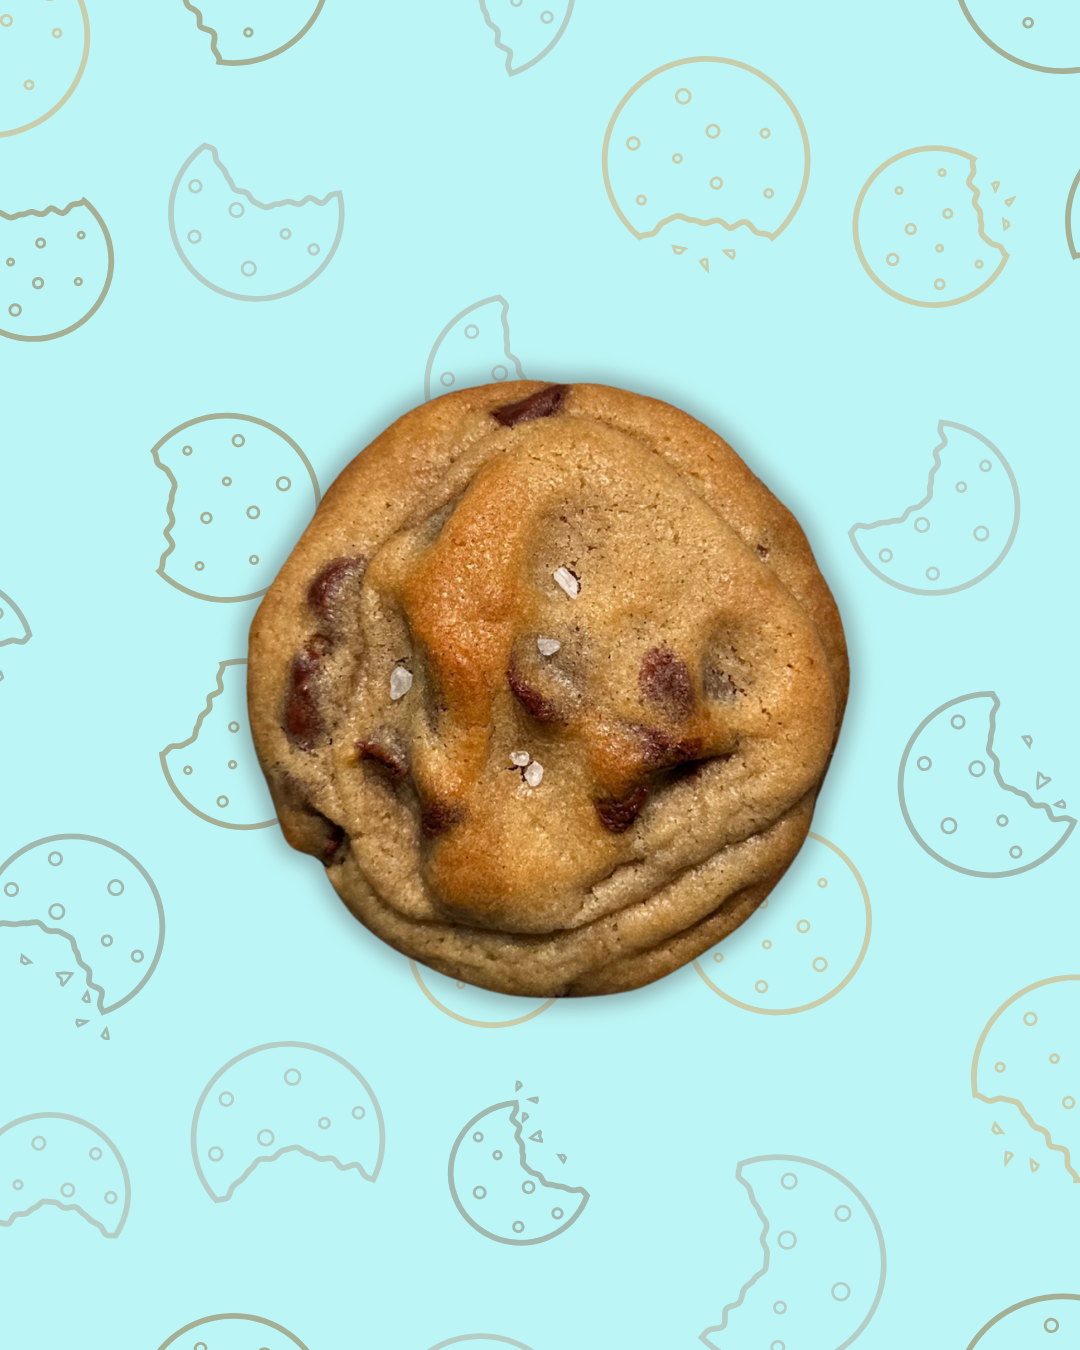
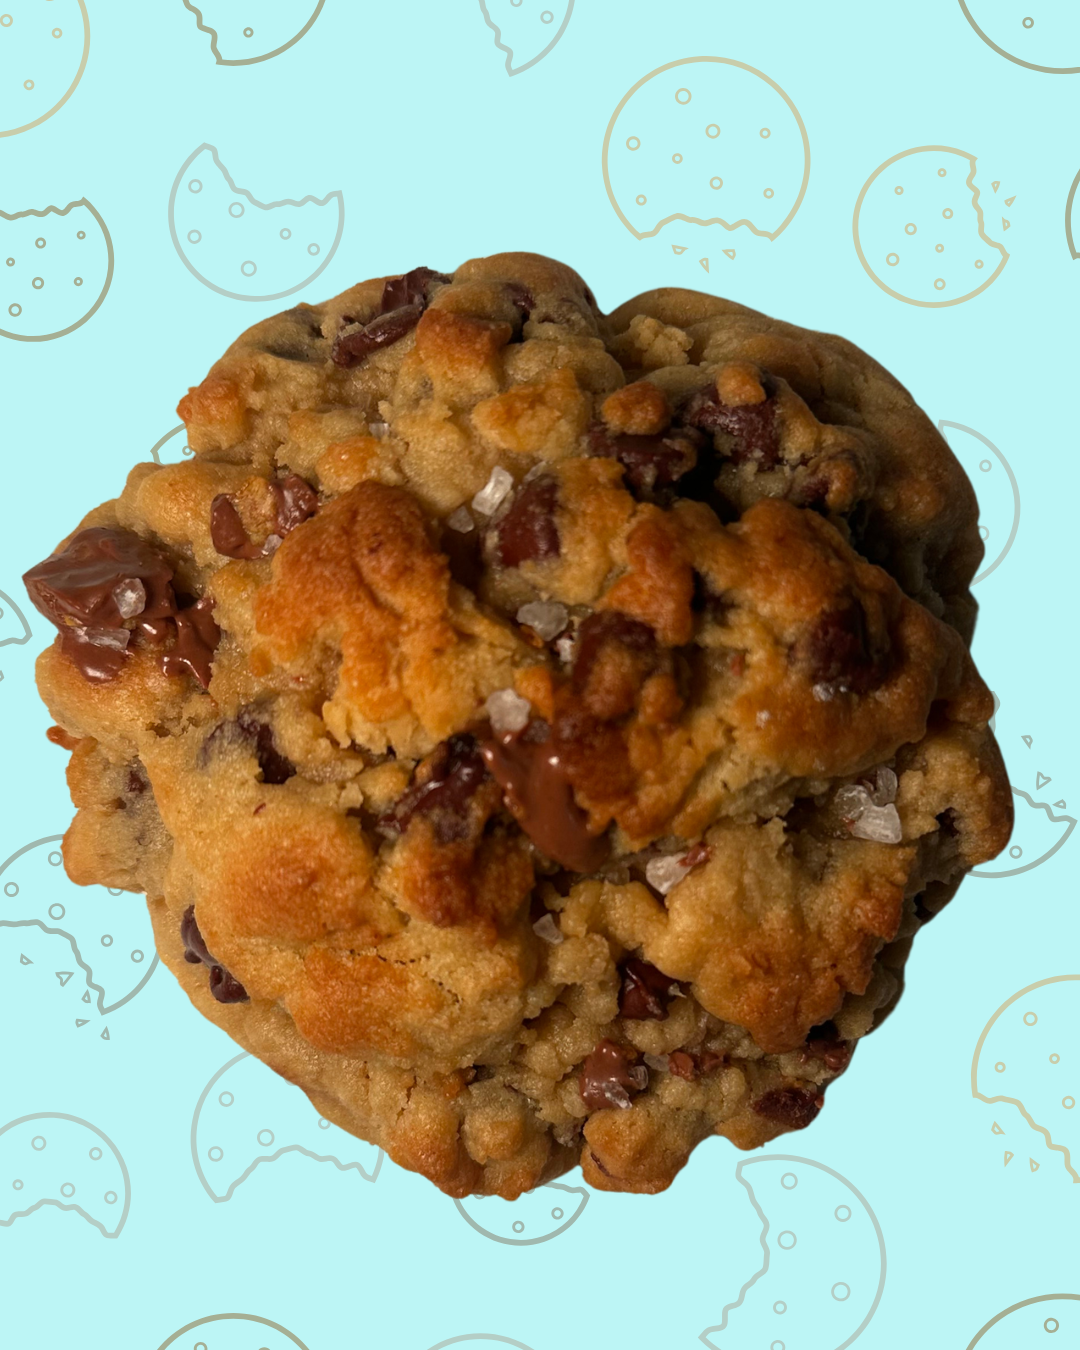
April Update!
Add multiple cookie image assets and extend productData with new cookie products (kinder-bueno, chocolate-chip, ferrero-macadamia, biscoff, mana-duo, tiramisu, dubai-pistachio). Update several existing cookie entries (toggle ongoing/new flags to reflect seasonal availability, adjust kinder-bueno-hippo price and flags) and remove obsolete chocolate-chip images. Also update some ongoing image files and bump CART_VERSION to v1.1. Overall: reorganize and consolidate cookie products and assets.

diff --git a/products.js b/products.js
@@ -17,14 +17,14 @@
         ongoingProductImg: "Main-ongoing-product-image",
         seasonedProductImg: "Main-seasoned-product-image",
         secondImg: "Second-product-image",
-        ongoing: true or false, // Controlls whether the item gets a price when the user clicks from the bakedGoods page and changes the background
+        ongoing: true, // Controlls whether the item gets a price when the user clicks from the bakedGoods page and changes the background
         get mainImg() {
             return this.ongoing ? this.ongoingProductImg : this.seasonedProductImg;
         },
-        new: true or false // Controlls if the item gets displayed in the Home Page's product carrousel
+        new: true // Controlls if the item gets displayed in the Home Page's product carrousel
     },
     */
-const CART_VERSION = "v1";
+const CART_VERSION = "v1.1";
 
 // Constant containing all of the product details
 const productData = {
@@ -67,24 +67,122 @@ const productData = {
         mainImg: "../images/sourdough/honey-oat_sourdough_bg.png",
         secondImg: "../images/sourdough/honey-oat_sourdough_og_bg.jpg",
         ongoing: true,
-        new: true
+        new: false
     },
 
 
     //----------- Cookies -------------
-    "kinder-bueno-hippo_cookie":{
-        title: "Kinder Bueno Hippo Cookie",
-        price: "$6.50",
-        info: "Vanilla cookie with chocolate chips, filled with white hazelnut cream, topped with a Kinder Bueno Hippo and white chocolate shavings",
-        ingredients: "General Ingredients: Flour, Sugar, Brown Sugar, Eggs, Butter, Baking Powder, Baking Soda, Corn Starch, Salt, Vanilla. Weight: 160g",
-        ongoingProductImg: "../images/cookies/kinder-bueno-hippo_cookie_bg_ongoing.png",
-        seasonedProductImg: "../images/cookies/kinder-bueno-hippo_cookie_bg_seasoned.png",
-        secondImg: "../images/cookies/kinder-bueno-hippo_cookie_bg.jpg",
+    "kinder-bueno_cookie":{
+        title: "Kinder Bueno Cookie",
+        price: "$5.50",
+        info: "Vanilla cookie with chocolate chips, mixed bueno spread, filled with bueno spread, topped with white chocolate and kinder bueno square",
+        ingredients: "General Ingredients: Flour, Sugar, Brown Sugar, Eggs, Butter, Baking Powder, Baking Soda, Corn Starch, Salt, Vanilla. Weight: 6oz+",
+        ongoingProductImg: "../images/cookies/kinder-bueno_cookie_bg_ongoing.png",
+        seasonedProductImg: "../images/cookies/kinder-bueno_cookie_bg_seasoned.png",
+        secondImg: "../images/cookies/kinder-bueno_cookie_bg.png",
         ongoing: true,
         get mainImg() {
             return this.ongoing ? this.ongoingProductImg : this.seasonedProductImg;
         },
         new: true
+    },
+    "chocolate-chip_cookie":{
+        title: "Chocolate Chip Cookie",
+        price: "$6.20",
+        info: "Chocolate chip cookie topped with sea salt",
+        ingredients: "General Ingredients: Flour, Sugar, Brown Sugar, Eggs, Butter, Baking Powder, Baking Soda, Corn Starch, Salt, Vanilla. Weight: 6oz+",
+        ongoingProductImg: "../images/cookies/chocolate-chip_cookie_bg_ongoing.png",
+        seasonedProductImg: "../images/cookies/chocolate-chip_cookie_bg_seasoned.png",
+        secondImg: "../images/cookies/chocolate-chip_cookie_bg.png",
+        ongoing: true,
+        get mainImg() {
+            return this.ongoing ? this.ongoingProductImg : this.seasonedProductImg;
+        },
+        new: true
+    },
+    "ferrero-macadamia_cookie":{
+        title: "Ferrero Macadamia Cookie",
+        price: "$8.60",
+        info: "Chocolate cookies with chocolate chips, mixed with macadamia nuts, filled with a Ferrero and Nutella, topped with half a Ferrero ",
+        ingredients: "General Ingredients: Flour, Sugar, Brown Sugar, Eggs, Butter, Baking Powder, Baking Soda, Corn Starch, Salt, Vanilla. Weight: 6oz+",
+        ongoingProductImg: "../images/cookies/ferrero-macademia_cookie_bg_ongoing.png",
+        seasonedProductImg: "",
+        secondImg: "../images/cookies/ferrero-macademia_cookie_bg.png",
+        ongoing: true, // Controlls whether the item gets a price when the user clicks from the bakedGoods page and changes the background
+        get mainImg() {
+            return this.ongoing ? this.ongoingProductImg : this.seasonedProductImg;
+        },
+        new: true // Controlls if the item gets displayed in the Home Page's product carrousel
+    },
+    "biscoff_cookie":{
+        title: "Biscoff Cookie",
+        price: "$8.00",
+        info: "Vanilla cookie with white chocolate chips, mixed with Biscoff cookie bits, filled with Biscoff cookie butter, topped with half a Biscoff cookie",
+        ingredients: "General Ingredients: Flour, Sugar, Brown Sugar, Eggs, Butter, Baking Powder, Baking Soda, Corn Starch, Salt, Vanilla. Weight: 6oz+",
+        ongoingProductImg: "../images/cookies/biscoff_cookie_bg_ongoing.png",
+        seasonedProductImg: "",
+        secondImg: "../images/cookies/biscoff_cookie_bg_white.png",
+        ongoing: true, // Controlls whether the item gets a price when the user clicks from the bakedGoods page and changes the background
+        get mainImg() {
+            return this.ongoing ? this.ongoingProductImg : this.seasonedProductImg;
+        },
+        new: true // Controlls if the item gets displayed in the Home Page's product carrousel
+    },
+    "mana-duo_cookie":{
+        title: "The Maná Duo",
+        price: "$8.00",
+        info: "Half vanilla, half chocolate cookie mixed with chocolate chips",
+        ingredients: "General Ingredients: Flour, Sugar, Brown Sugar, Eggs, Butter, Baking Powder, Baking Soda, Corn Starch, Salt, Vanilla. Weight: 6oz+",
+        ongoingProductImg: "../images/cookies/mana-duo_cookie_bg_ongoing.png",
+        seasonedProductImg: "",
+        secondImg: "../images/cookies/mana-duo_cookie_bg_white.png",
+        ongoing: true, // Controlls whether the item gets a price when the user clicks from the bakedGoods page and changes the background
+        get mainImg() {
+            return this.ongoing ? this.ongoingProductImg : this.seasonedProductImg;
+        },
+        new: true // Controlls if the item gets displayed in the Home Page's product carrousel
+    },
+    "tiramisu_cookie":{
+        title: "Tiramisu Cookie",
+        price: "$8.00",
+        info: "Vanilla cookie with chocolate chips, mixed with ladyfinger cookie bits, filled with tiramisu spread, topped with cocoa powder",
+        ingredients: "General Ingredients: Flour, Sugar, Brown Sugar, Eggs, Butter, Baking Powder, Baking Soda, Corn Starch, Salt, Vanilla. Weight: 6oz+",
+        ongoingProductImg: "../images/cookies/tiramisu_cookie_bg_ongoing.png",
+        seasonedProductImg: "",
+        secondImg: "../images/cookies/tiramisu_cookie_bg_white.png",
+        ongoing: true, // Controlls whether the item gets a price when the user clicks from the bakedGoods page and changes the background
+        get mainImg() {
+            return this.ongoing ? this.ongoingProductImg : this.seasonedProductImg;
+        },
+        new: true // Controlls if the item gets displayed in the Home Page's product carrousel
+    },
+    "dubai-pistachio_cookie":{
+        title: "Dubai Pistachio Cookie",
+        price: "$8.60",
+        info: "Vanilla cookie with chocolate chips, mixed with pistachios, filled with pistachio spread and crunchy kataifi, topped with chocolate and pistachios",
+        ingredients: "General Ingredients: Flour, Sugar, Brown Sugar, Eggs, Butter, Baking Powder, Baking Soda, Corn Starch, Salt, Vanilla. Weight: 6oz+",
+        ongoingProductImg: "../images/cookies/dubai-pistachio_cookie_bg_ongoing.png",
+        seasonedProductImg: "",
+        secondImg: "../images/cookies/dubai-pistachio_cookie_bg.png",
+        ongoing: true, // Controlls whether the item gets a price when the user clicks from the bakedGoods page and changes the background
+        get mainImg() {
+            return this.ongoing ? this.ongoingProductImg : this.seasonedProductImg;
+        },
+        new: true // Controlls if the item gets displayed in the Home Page's product carrousel
+    },
+    "kinder-bueno-hippo_cookie":{
+        title: "Kinder Bueno Hippo Cookie",
+        price: "$8.00",
+        info: "Vanilla cookie with chocolate chips, filled with white hazelnut cream, topped with a Kinder Bueno Hippo and white chocolate shavings",
+        ingredients: "General Ingredients: Flour, Sugar, Brown Sugar, Eggs, Butter, Baking Powder, Baking Soda, Corn Starch, Salt, Vanilla. Weight: 160g",
+        ongoingProductImg: "../images/cookies/kinder-bueno-hippo_cookie_bg_ongoing.png",
+        seasonedProductImg: "../images/cookies/kinder-bueno-hippo_cookie_bg_seasoned.png",
+        secondImg: "../images/cookies/kinder-bueno-hippo_cookie_bg.jpg",
+        ongoing: false,
+        get mainImg() {
+            return this.ongoing ? this.ongoingProductImg : this.seasonedProductImg;
+        },
+        new: false
     },
     "reeses-peanut-butter-cup_cookie":{
         title: "Reese’s Peanut Butter Cup Cookie",
@@ -94,11 +192,11 @@ const productData = {
         ongoingProductImg: "../images/cookies/reeses-peanut-butter-cup_cookie_bg_ongoing.png",
         seasonedProductImg: "../images/cookies/reeses-peanut-butter-cup_cookie_bg_seasoned.png",
         secondImg: "../images/cookies/reeses-peanut-butter-cup_cookie_bg.jpg",
-        ongoing: true,
+        ongoing: false,
         get mainImg() {
             return this.ongoing ? this.ongoingProductImg : this.seasonedProductImg;
         },
-        new: true
+        new: false
     },
     "strawberry-matcha_cookie":{
         title: "Strawberry Matcha Cookie",
@@ -108,11 +206,11 @@ const productData = {
         ongoingProductImg: "../images/cookies/strawberry-matcha_cookie_bg_ongoing.png",
         seasonedProductImg: "../images/cookies/strawberry-matcha_cookie_bg_seasoned.png",
         secondImg: "../images/cookies/strawberry-matcha_cookie_bg.jpg",
-        ongoing: true,
+        ongoing: false,
         get mainImg() {
             return this.ongoing ? this.ongoingProductImg : this.seasonedProductImg;
         },
-        new: true
+        new: false
     },
     "guava-dulce-de-leche_cookie":{
         title: "Guava-Dulce de Leche Cookie",
@@ -122,11 +220,11 @@ const productData = {
         ongoingProductImg: "../images/cookies/guava-dulce-de-leche_cookie_bg_ongoing.png",
         seasonedProductImg: "../images/cookies/guava-dulce-de-leche_cookie_bg_seasoned.png",
         secondImg: "../images/cookies/guava-dulce-de-leche_cookie_bg.jpg",
-        ongoing: true,
+        ongoing: false,
         get mainImg() {
             return this.ongoing ? this.ongoingProductImg : this.seasonedProductImg;
         },
-        new: true
+        new: false
     },
     "cocoa-coffee-toffee_cookie":{
         title: "Cocoa Coffee Toffee Cookie",
@@ -136,11 +234,11 @@ const productData = {
         ongoingProductImg: "../images/cookies/cocoa-coffee-toffee_cookie_bg_ongoing.png",
         seasonedProductImg: "../images/cookies/cocoa-coffee-toffee_cookie_bg_seasoned.png",
         secondImg: "../images/cookies/cocoa-coffee-toffee_cookie_bg.jpg",
-        ongoing: true,
+        ongoing: false,
         get mainImg() {
             return this.ongoing ? this.ongoingProductImg : this.seasonedProductImg;
         },
-        new: true
+        new: false
     },
     "dubai-choco_cookie":{
         title: "Dubai Chocolate Cookie", /*Change back after Febuary (Currently Valentine's Day Themed Name)*/
@@ -150,11 +248,11 @@ const productData = {
         ongoingProductImg: "../images/cookies/dubai-choco_cookie_bg_ongoing.png",
         seasonedProductImg: "../images/cookies/dubai-choco_cookie_bg_seasoned.png",
         secondImg: "../images/cookies/dubai-choco_cookie_bg.jpg",
-        ongoing: true,
+        ongoing: false,
         get mainImg() {
             return this.ongoing ? this.ongoingProductImg : this.seasonedProductImg;
         },
-        new: true
+        new: false
     },
     "s-mores_cookie":{
         title: "S'Mores Cookie",
@@ -164,25 +262,11 @@ const productData = {
         ongoingProductImg: "../images/cookies/s-mores_cookie_bg_ongoing.png",
         seasonedProductImg: "../images/cookies/s-mores_cookie_bg_seasoned.png",
         secondImg: "../images/cookies/s-mores_cookie_bg.jpg",
-        ongoing: true,
+        ongoing: false,
         get mainImg() {
             return this.ongoing ? this.ongoingProductImg : this.seasonedProductImg;
         },
-        new: true
-    },
-    "chocolate-chip_cookie":{
-        title: "Chocolate Chip Cookie",
-        price: "$4.00",
-        info: "Chocolate chip cookie topped with sea salt",
-        ingredients: "General Ingredients: Flour, Sugar, Brown Sugar, Eggs, Butter, Baking Powder, Baking Soda, Corn Starch, Salt, Vanilla. Weight: 160g",
-        ongoingProductImg: "../images/cookies/chocolate-chip_cookie_bg_ongoing.png",
-        seasonedProductImg: "../images/cookies/chocolate-chip_cookie_bg_seasoned.png",
-        secondImg: "../images/cookies/chocolate-chip_cookie_rbg-1.jpeg",
-        ongoing: true,
-        get mainImg() {
-            return this.ongoing ? this.ongoingProductImg : this.seasonedProductImg;
-        },
-        new: true
+        new: false
     },
     "red-velvet_cookie":{
         title: "Red Velvet Cookie",
@@ -318,20 +402,6 @@ const productData = {
         ongoingProductImg: "../images/cookies/ghirardelli_choco-caramel_cookie_bg_ongoing.png",
         seasonedProductImg: "../images/cookies/ghirardelli_choco-caramel_cookie_bg_seasoned.png",
         secondImg: "../images/cookies/ghirardelli_choco-caramel_cookie_bg_white.png",
-        ongoing: false,
-        get mainImg() {
-            return this.ongoing ? this.ongoingProductImg : this.seasonedProductImg;
-        },
-        new: false
-    },
-    "kinder-bueno_cookie":{
-        title: "Kinder Bueno Cookie",
-        price: "$5.50",
-        info: "White and milk chocolate chip cookie mixed with Bueno squares, filled with white chocolate hazelnut spread, topped with Bueno squares and white chocolate hazelnut drizzle",
-        ingredients: "General Ingredients: Flour, Sugar, Brown Sugar, Eggs, Butter, Baking Powder, Baking Soda, Corn Starch, Salt, Vanilla. Weight: 160g",
-        ongoingProductImg: "../images/cookies/kinder-bueno_cookie_bg_ongoing.png",
-        seasonedProductImg: "../images/cookies/kinder-bueno_cookie_bg_seasoned.png",
-        secondImg: "../images/cookies/kinder-bueno_cookie_bg_white.png",
         ongoing: false,
         get mainImg() {
             return this.ongoing ? this.ongoingProductImg : this.seasonedProductImg;
